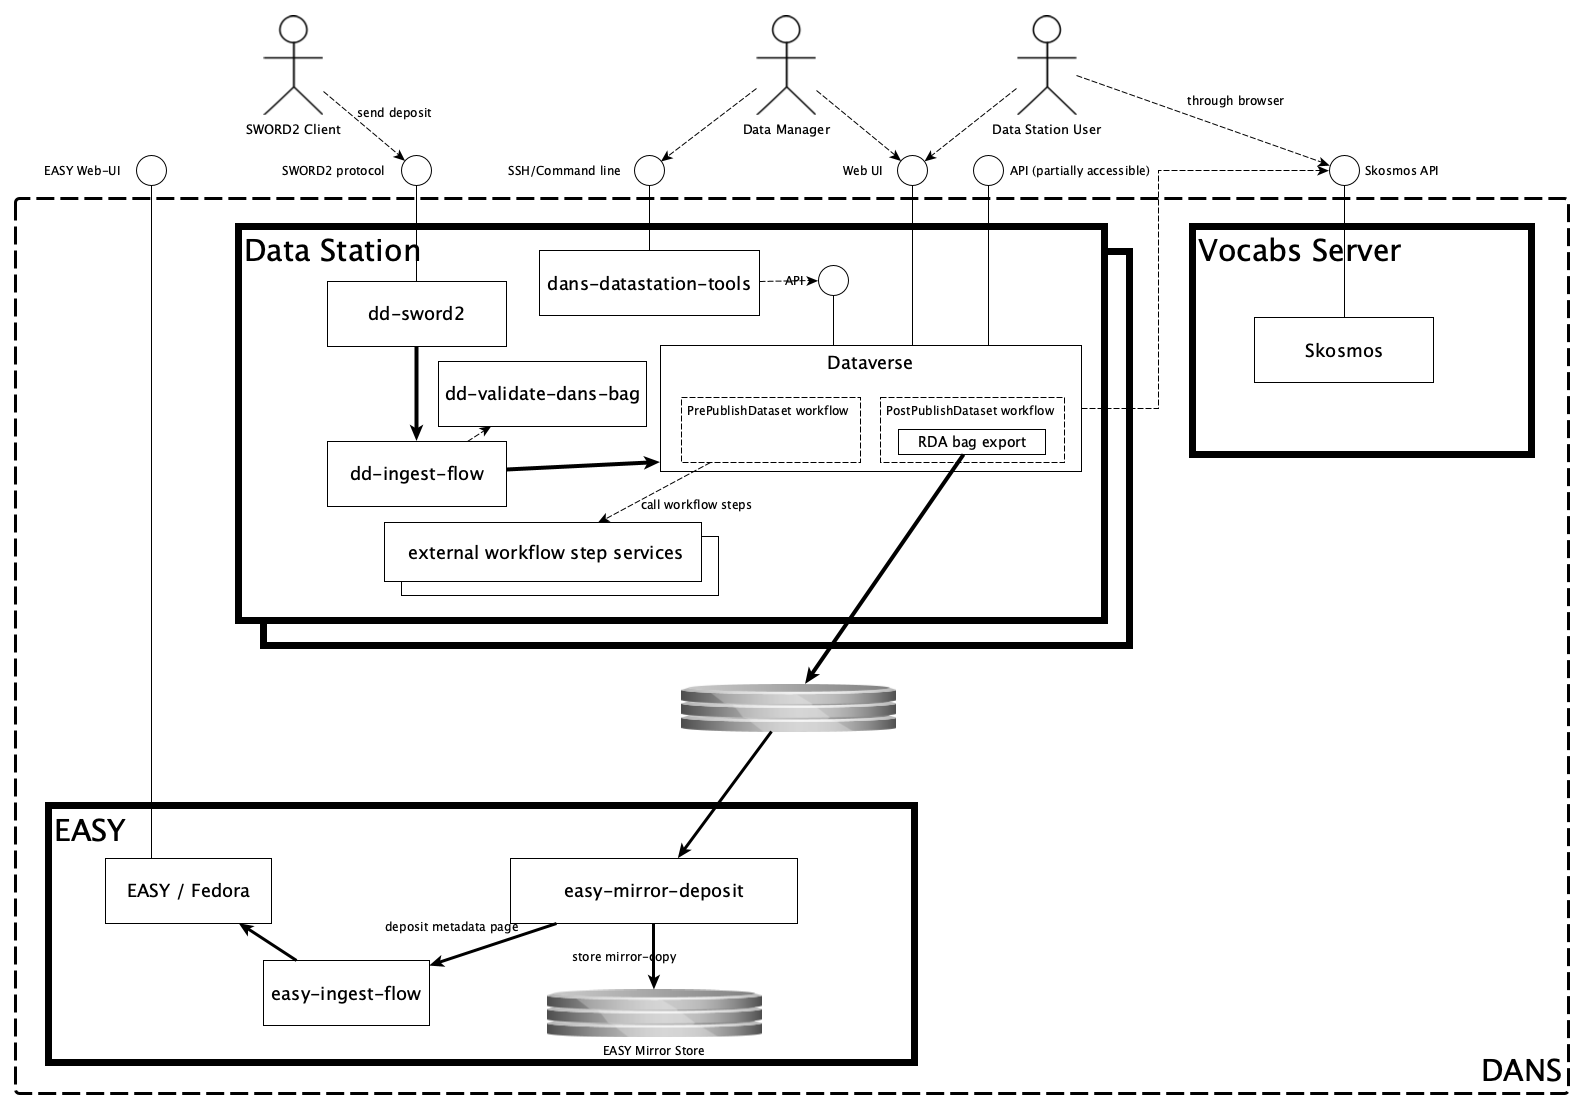
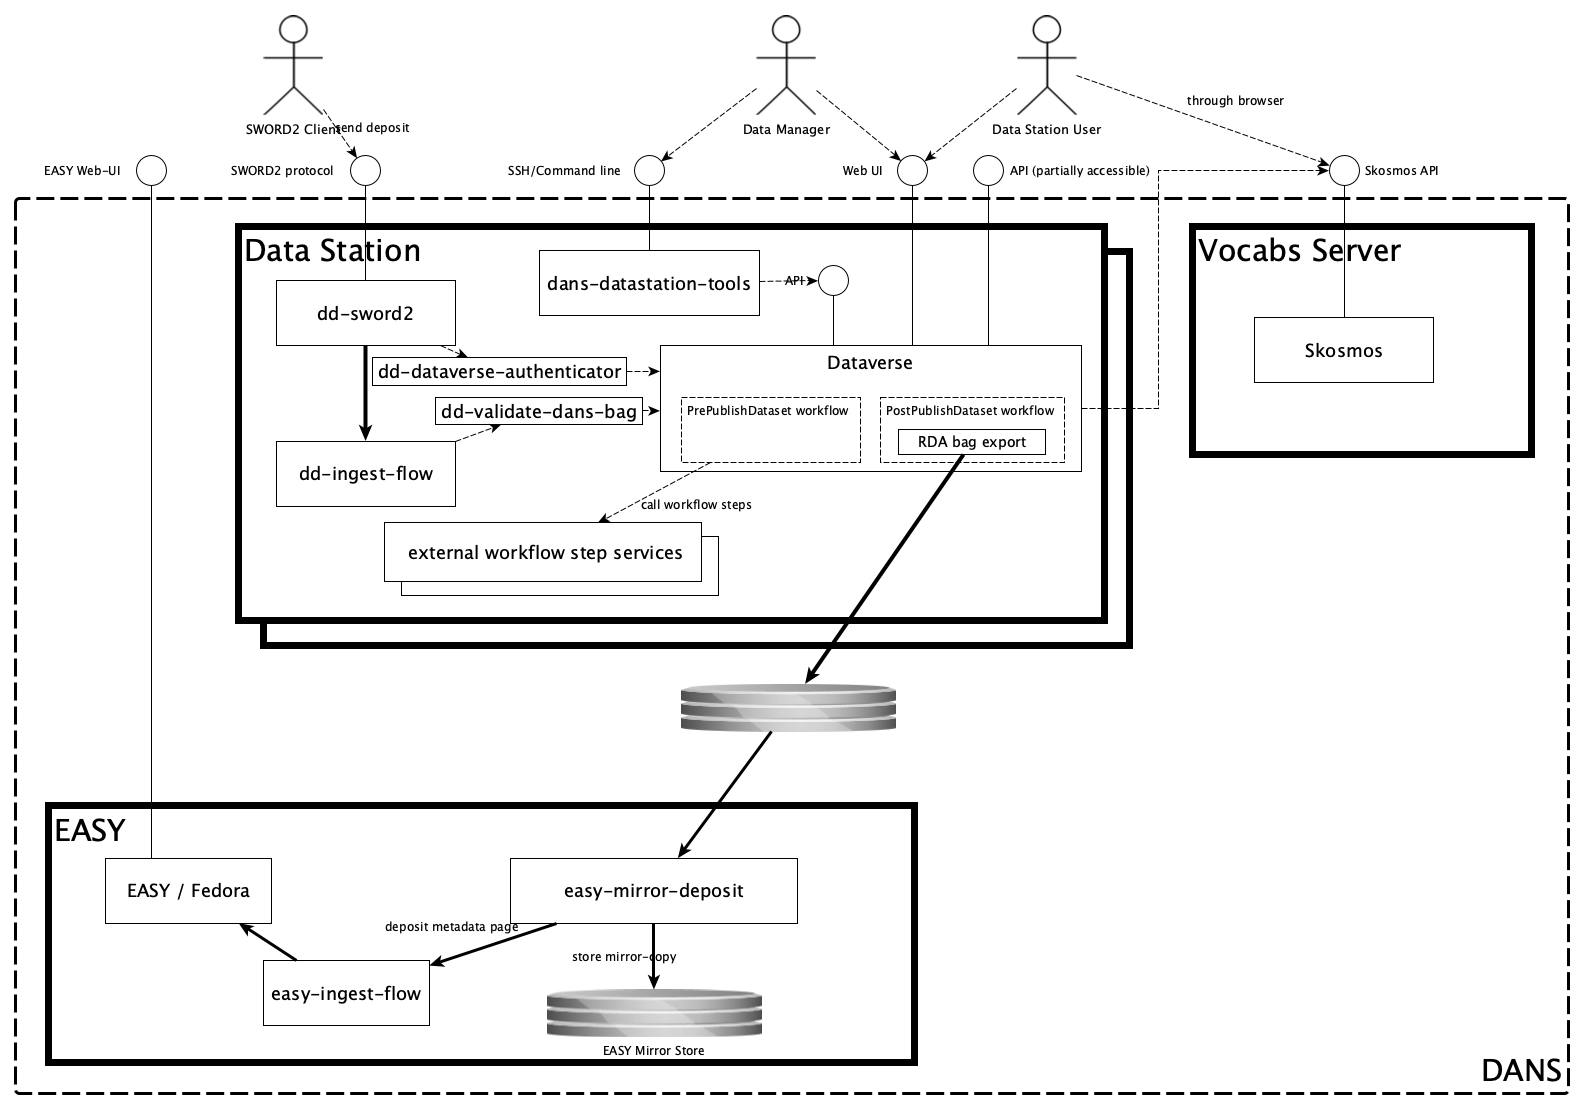
Added dd-dataverse-authenticator component

Changed region(s): [[0.1856, 0.2759, 0.4021, 0.4292], [0.1856, 0.092, 0.2784, 0.1839]]

diff --git a/docs/index.md b/docs/index.md
@@ -12,7 +12,7 @@ the [legend that is included at the end of this page](#schema-legend).
 Actors
 ------
 
-* **SWORD2 Client** - a software client that interacts with the [DANS SWORDv2 Service](#dd-sword2) to deposit datasets. 
+* **SWORD2 Client** - a software client that interacts with the [DANS SWORDv2 Service](#dd-sword2) to deposit datasets.
 * **Data Station User** - a user of the Data Station, typically a customer who downloads or deposits data.
 * **Data Manager** - a user with special privileges, who curates and publishes datasets submitted for review by a user.
 
@@ -47,6 +47,15 @@ DANS implementation of the SWORD v2 protocol for automated deposits.
 |-----------------------------|----------------------------------------------------------|
 | [dd-sword2]{:target=_blank} | <https://github.com/DANS-KNAW/dd-sword2>{:target=_blank} |
 
+### dd-dataverse-authenticator
+
+A proxy that authenticates clients on behalf of Dataverse, using the basic auth protocol. It is used by [dd-sword2](#dd-sword2) to authenticate its clients by
+their Dataverse account credentials.
+
+| Docs                                         | Code                                                                |
+|----------------------------------------------|---------------------------------------------------------------------|
+| [dd-dataverse-authenticator]{:target=_blank} | <https://github.com/DANS-KNAW/dd-dataverse-authenticator>{:target=_blank} |
+
 ### dd-ingest-flow
 
 Service for ingesting deposit directories into Dataverse.
@@ -58,7 +67,7 @@ Service for ingesting deposit directories into Dataverse.
 ### dd-validate-dans-bag
 
 Service that checks whether a bag complies with DANS BagIt Profile v1. It is used by [dd-ingest-flow](#dd-ingest-flow) to validate bags that are uploaded via
-SWORD2 or are migrated from EASY. 
+SWORD2 or are migrated from EASY.
 
 | Docs                                    | Code                                                                |
 |-----------------------------------------|---------------------------------------------------------------------|
@@ -148,11 +157,13 @@ Exports are wrapped in an [OCFL]{:target=_blank} repository structure.
 
 [dd-sword2]: https://dans-knaw.github.io/dd-sword2/
 
+[dd-dataverse-authenticator]: https://dans-knaw.github.io/dd-dataverse-authenticator/
+
 [dd-ingest-flow]: https://dans-knaw.github.io/dd-ingest-flow
 
 [dd-validate-dans-bag]: https://dans-knaw.github.io/dd-validate-dans-bag
 
-[DANS BagIt Profile v1]: {{ dans_bagit_profile }} 
+[DANS BagIt Profile v1]: {{ dans_bagit_profile }}
 
 [dans-datastation-tools]: https://dans-knaw.github.io/dans-datastation-tools
 

diff --git a/docs/status.md b/docs/status.md
@@ -7,7 +7,8 @@ Build status
 | dans-dataverse-client-lib       | [![Build project](https://github.com/DANS-KNAW/dans-dataverse-client-lib/actions/workflows/build.yml/badge.svg)](https://github.com/DANS-KNAW/dans-dataverse-client-lib/actions/workflows/build.yml)             |
 | dans-java-utils                 | [![Build project](https://github.com/DANS-KNAW/dans-java-utils/actions/workflows/build.yml/badge.svg)](https://github.com/DANS-KNAW/dans-java-utils/actions/workflows/build.yml)                                 |
 | dans-module-archetype           | [![Build project](https://github.com/DANS-KNAW/dans-module-archetype/actions/workflows/build.yml/badge.svg)](https://github.com/DANS-KNAW/dans-module-archetype/actions/workflows/build.yml)                     |
-| dd-ingest-flow                  | [![Build project](https://github.com/DANS-KNAW/dd-ingest-flow/actions/workflows/build.yml/badge.svg)](https://github.com/DANS-KNAW/dd-ingest-flow/actions/workflows/build.yml)                                   |
+| dd-dataverse-authenticator      | [![Build project](https://github.com/DANS-KNAW/dd-ingest-flow/actions/workflows/build.yml/badge.svg)](https://github.com/DANS-KNAW/dd-ingest-flow/actions/workflows/build.yml)                                   |
+| dd-ingest-flow                  | [![Build project](https://github.com/DANS-KNAW/dd-dataverse-authenticator/actions/workflows/build.yml/badge.svg)](https://github.com/DANS-KNAW/dd-dataverse-authenticator/actions/workflows/build.yml)                                   |
 | dd-sword2                       | [![Build project](https://github.com/DANS-KNAW/dd-sword2/actions/workflows/build.yml/badge.svg)](https://github.com/DANS-KNAW/dd-sword2/actions/workflows/build.yml)                                             |
 | dd-transfer-to-vault            | [![Build project](https://github.com/DANS-KNAW/dd-transfer-to-vault/actions/workflows/build.yml/badge.svg)](https://github.com/DANS-KNAW/dd-transfer-to-vault/actions/workflows/build.yml)                       |
 | dd-validate-dans-bag            | [![Build project](https://github.com/DANS-KNAW/dd-validate-dans-bag/actions/workflows/build.yml/badge.svg)](https://github.com/DANS-KNAW/dd-validate-dans-bag/actions/workflows/build.yml)                       |

diff --git a/docs/deposit-directory.md b/docs/deposit-directory.md
@@ -15,7 +15,7 @@ A _deposit directory_ is a directory containing:
 
 `<deposit files>`
 -----------------
-The deposit files are one or more files are directories. Typically, it will be one directory, a [bag]{:target=_blank}, and more specifically, one
+The deposit files are one or more files or directories. Typically, it will be one directory, a [bag]{:target=_blank}, and more specifically, one
 conforming to the [DANS BagIt Profile v1]{:target=_blank}. However, applications have different requirements with respect to the contents and lay-out of the
 deposit.
 
